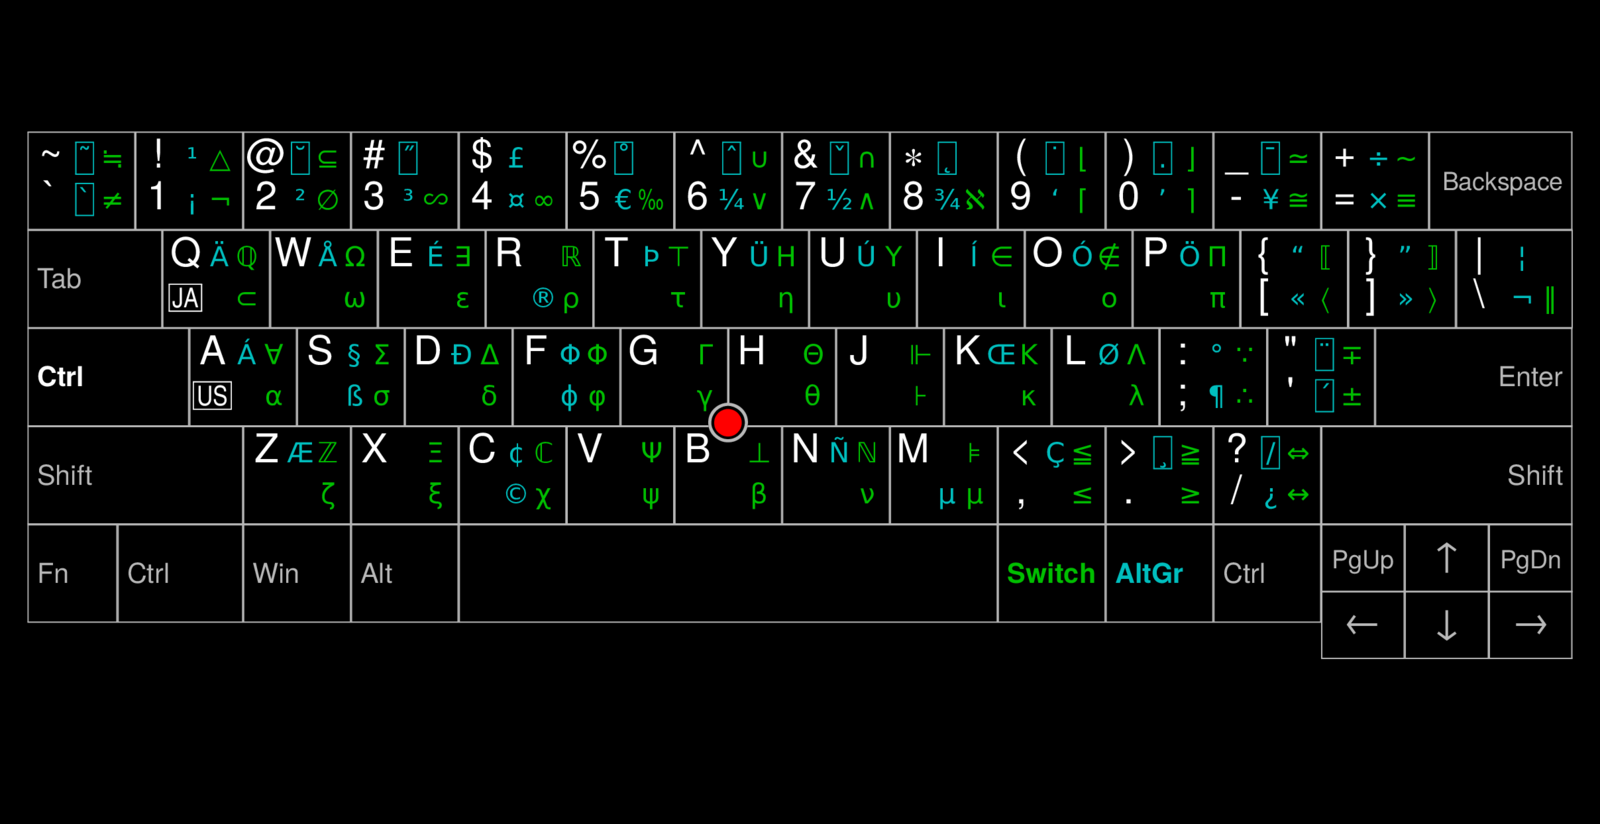
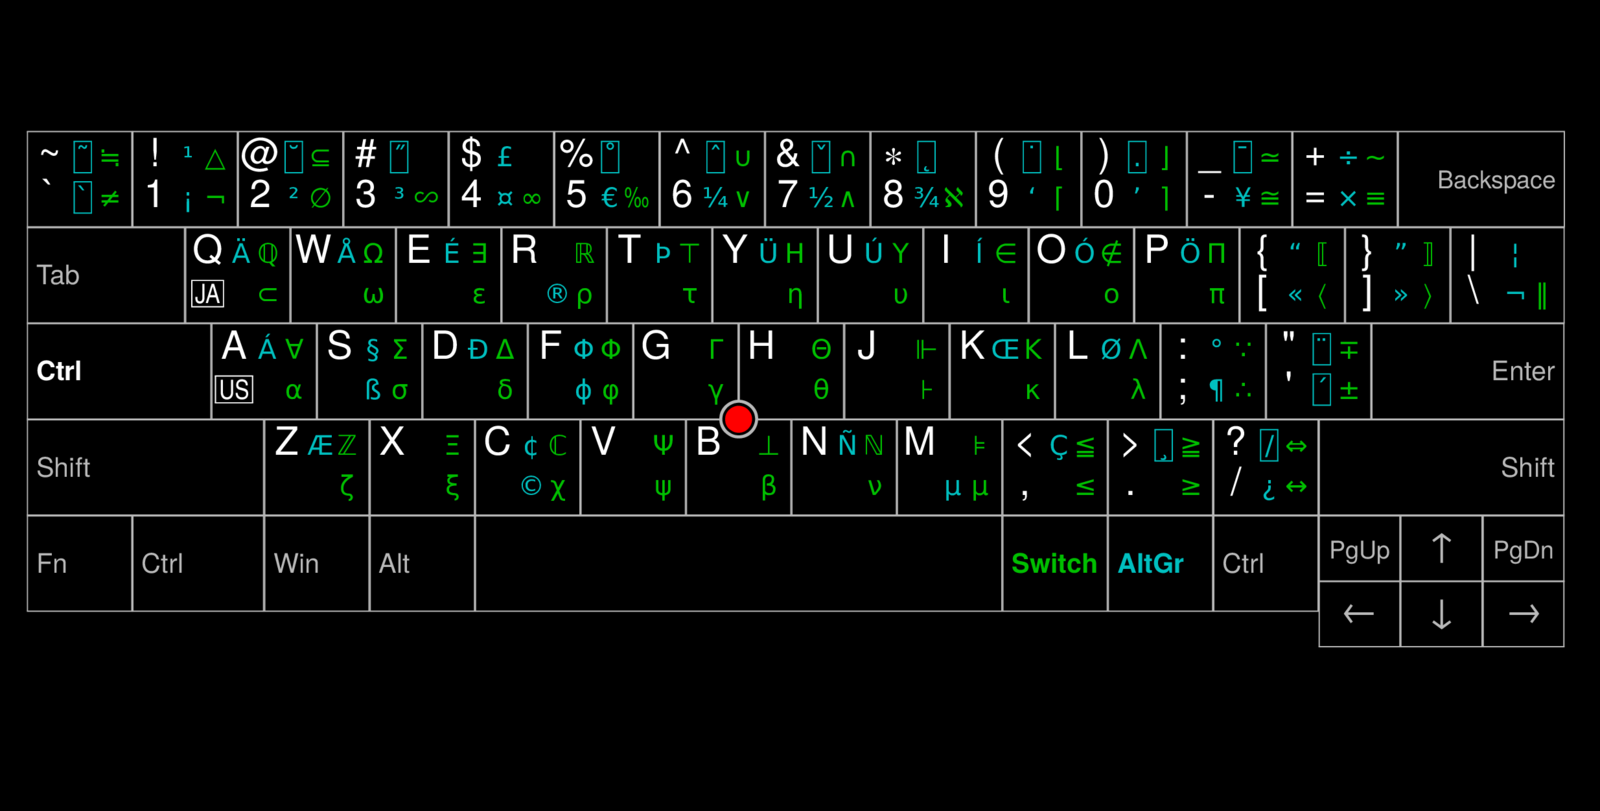
微調整

diff --git a/kbtable.tex b/kbtable.tex
@@ -5,7 +5,7 @@
 \pagestyle{empty}
 \newdimen\DX
 \DX=1.35\baselineskip
-\paperwidth=28.666\dimexpr\DX+\fboxsep+\fboxrule\relax
+\paperwidth=29.33\dimexpr\DX+\fboxsep+\fboxrule\relax
 \advance\paperwidth20pt
 \paperheight=17\baselineskip
 \advance\paperheight20pt
@@ -75,11 +75,11 @@
 \K{0}{)}{⌉}{⌋}{’}{\AC{002E}}
 \K{-}{\_}{≅}{≃}{¥}{\AC{00AF}}
 \K{=}{+}{≡}{∼}{×}{÷}
-\W{2.66}{\hfill\small Backspace}
+\W{3.17}{\hfill\small Backspace}
 
 \kern-5.5pt
 \null
-\W{2.50}{Tab}
+\W{3}{Tab}
 \K{\COND\normalsize\fboxsep=.1em\fbox{JA}}{Q}{⊂}{ℚ}{}{Ä}
 \K{}{W}{ω}{Ω}{}{Å}
 \K{}{E}{ε}{∃}{}{É}
@@ -96,7 +96,7 @@
 
 \kern-5.5pt
 \null
-\W{3}{\textcolor{\FORECOLOR}{\bfseries Ctrl}}
+\W{3.5}{\textcolor{\FORECOLOR}{\bfseries Ctrl}}
 \K{\COND\normalsize\fboxsep=.1em\fbox{US}}{A}{α}{∀}{}{Á}
 \K{}{S}{σ}{Σ}{ß}{§}
 \K{}{D}{δ}{Δ}{}{Ð}
@@ -112,18 +112,18 @@
 
 \kern-5.5pt
 \null
-\W4{Shift}
+\W{4.5}{Shift}
 \K{}{Z}{ζ}{ℤ}{}{Æ}
 \K{}{X}{ξ}{Ξ}{}{}
 \K{}{C}{χ}{ℂ}{©}{¢}
 \K{}{V}{ψ}{Ψ}{}{}%
 \K{}{B}{β}{⊥}{}{}
 \kern-\dimexpr\DX+\fboxsep+\fboxrule
-\smash{\raise2.1\baselineskip\hbox to0pt{%
+\smash{\raise2\baselineskip\hbox to0pt{%
   \hss\JP\textcolor{\BACKCOLOR}{\LARGE$\vcenter{\hbox{●}}$}\hss}}%
-\smash{\raise2.1\baselineskip\hbox to0pt{%
+\smash{\raise2\baselineskip\hbox to0pt{%
   \hss\JP\textcolor{\LINECOLOR}{\LARGE$\vcenter{\hbox{○}}$}\hss}}%
-\smash{\raise2.2\baselineskip\hbox to0pt{%
+\smash{\raise2.11\baselineskip\hbox to0pt{%
   \hss\JP\textcolor{red}{\large$\vcenter{\hbox{●}}$}\hss}}%
 \kern\dimexpr\DX+\fboxsep+\fboxrule
 \K{}{N}{ν}{ℕ}{}{Ñ}
@@ -135,8 +135,8 @@
 
 \kern-5.5pt
 \null
-\W{1.67}{Fn}
-\W{2.33}{Ctrl}
+\W{2}{Fn}
+\W{2.50}{Ctrl}
 \W2{Win}%"
 \W2{Alt}
 \W{10}{}
@@ -149,7 +149,7 @@
 
 \kern-17pt
 \null
-\hskip24\dimexpr\DX+\fboxsep+\fboxrule\relax
+\hskip24.5\dimexpr\DX+\fboxsep+\fboxrule\relax
 \X{1.55}{←}\X{1.56}{↓}\X{1.55}{→}
 
 \def\TEMP{white}
